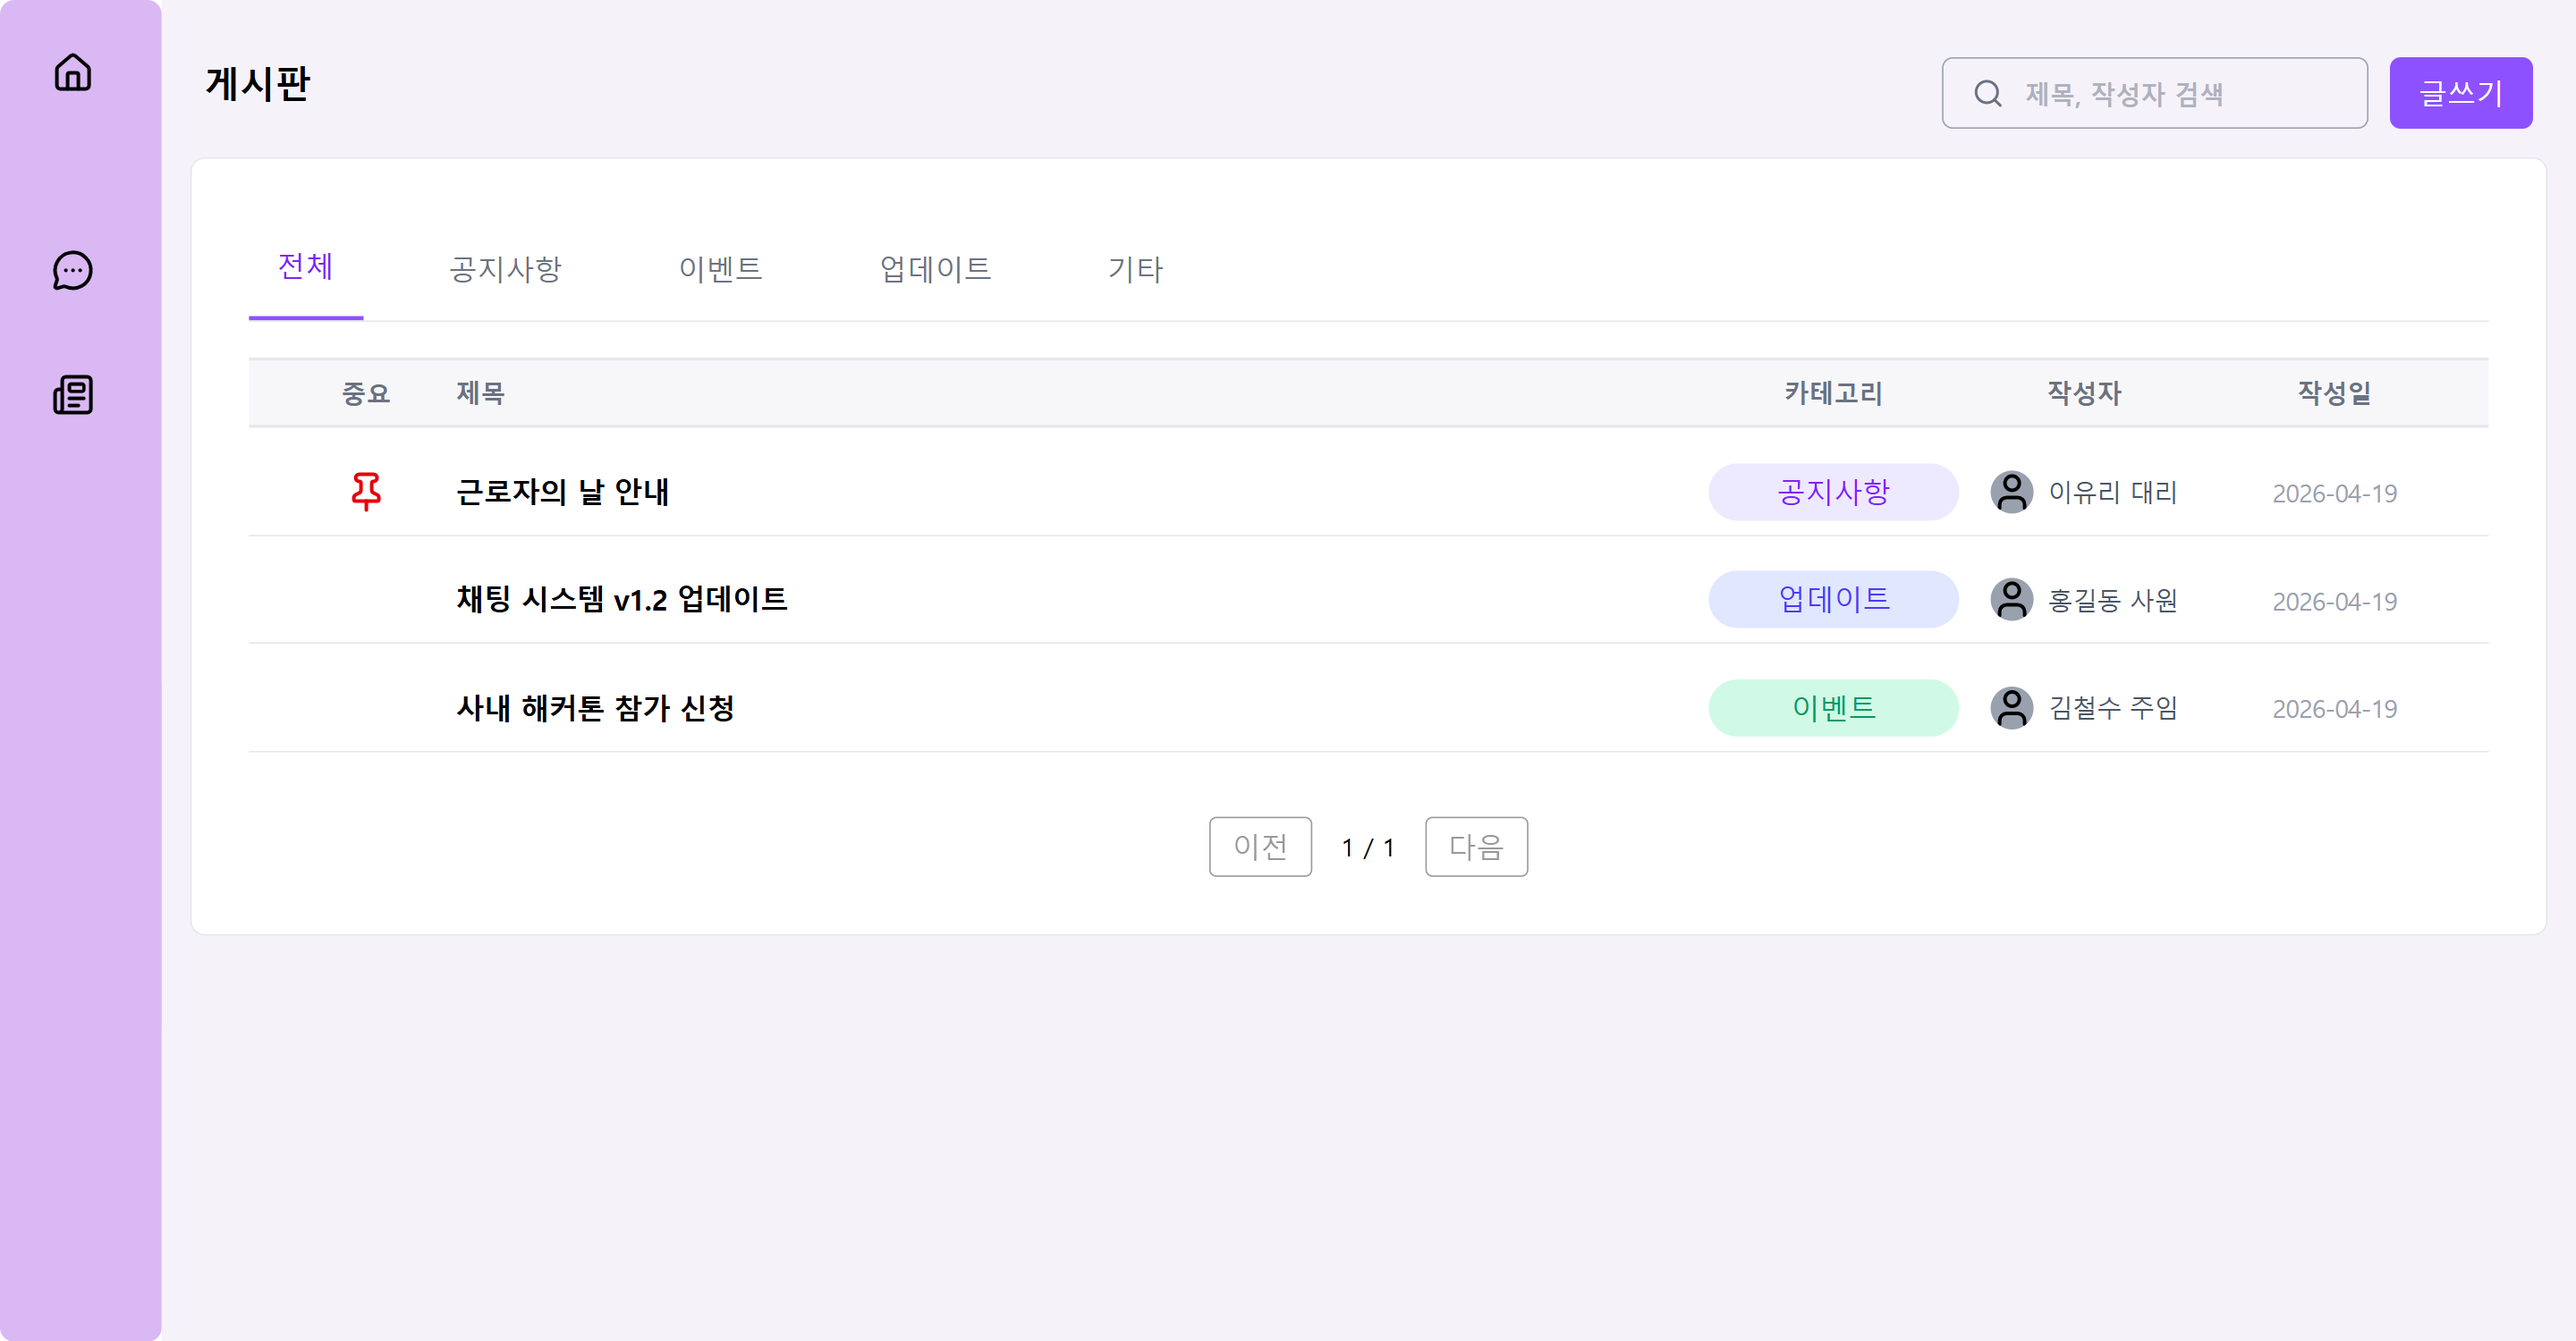
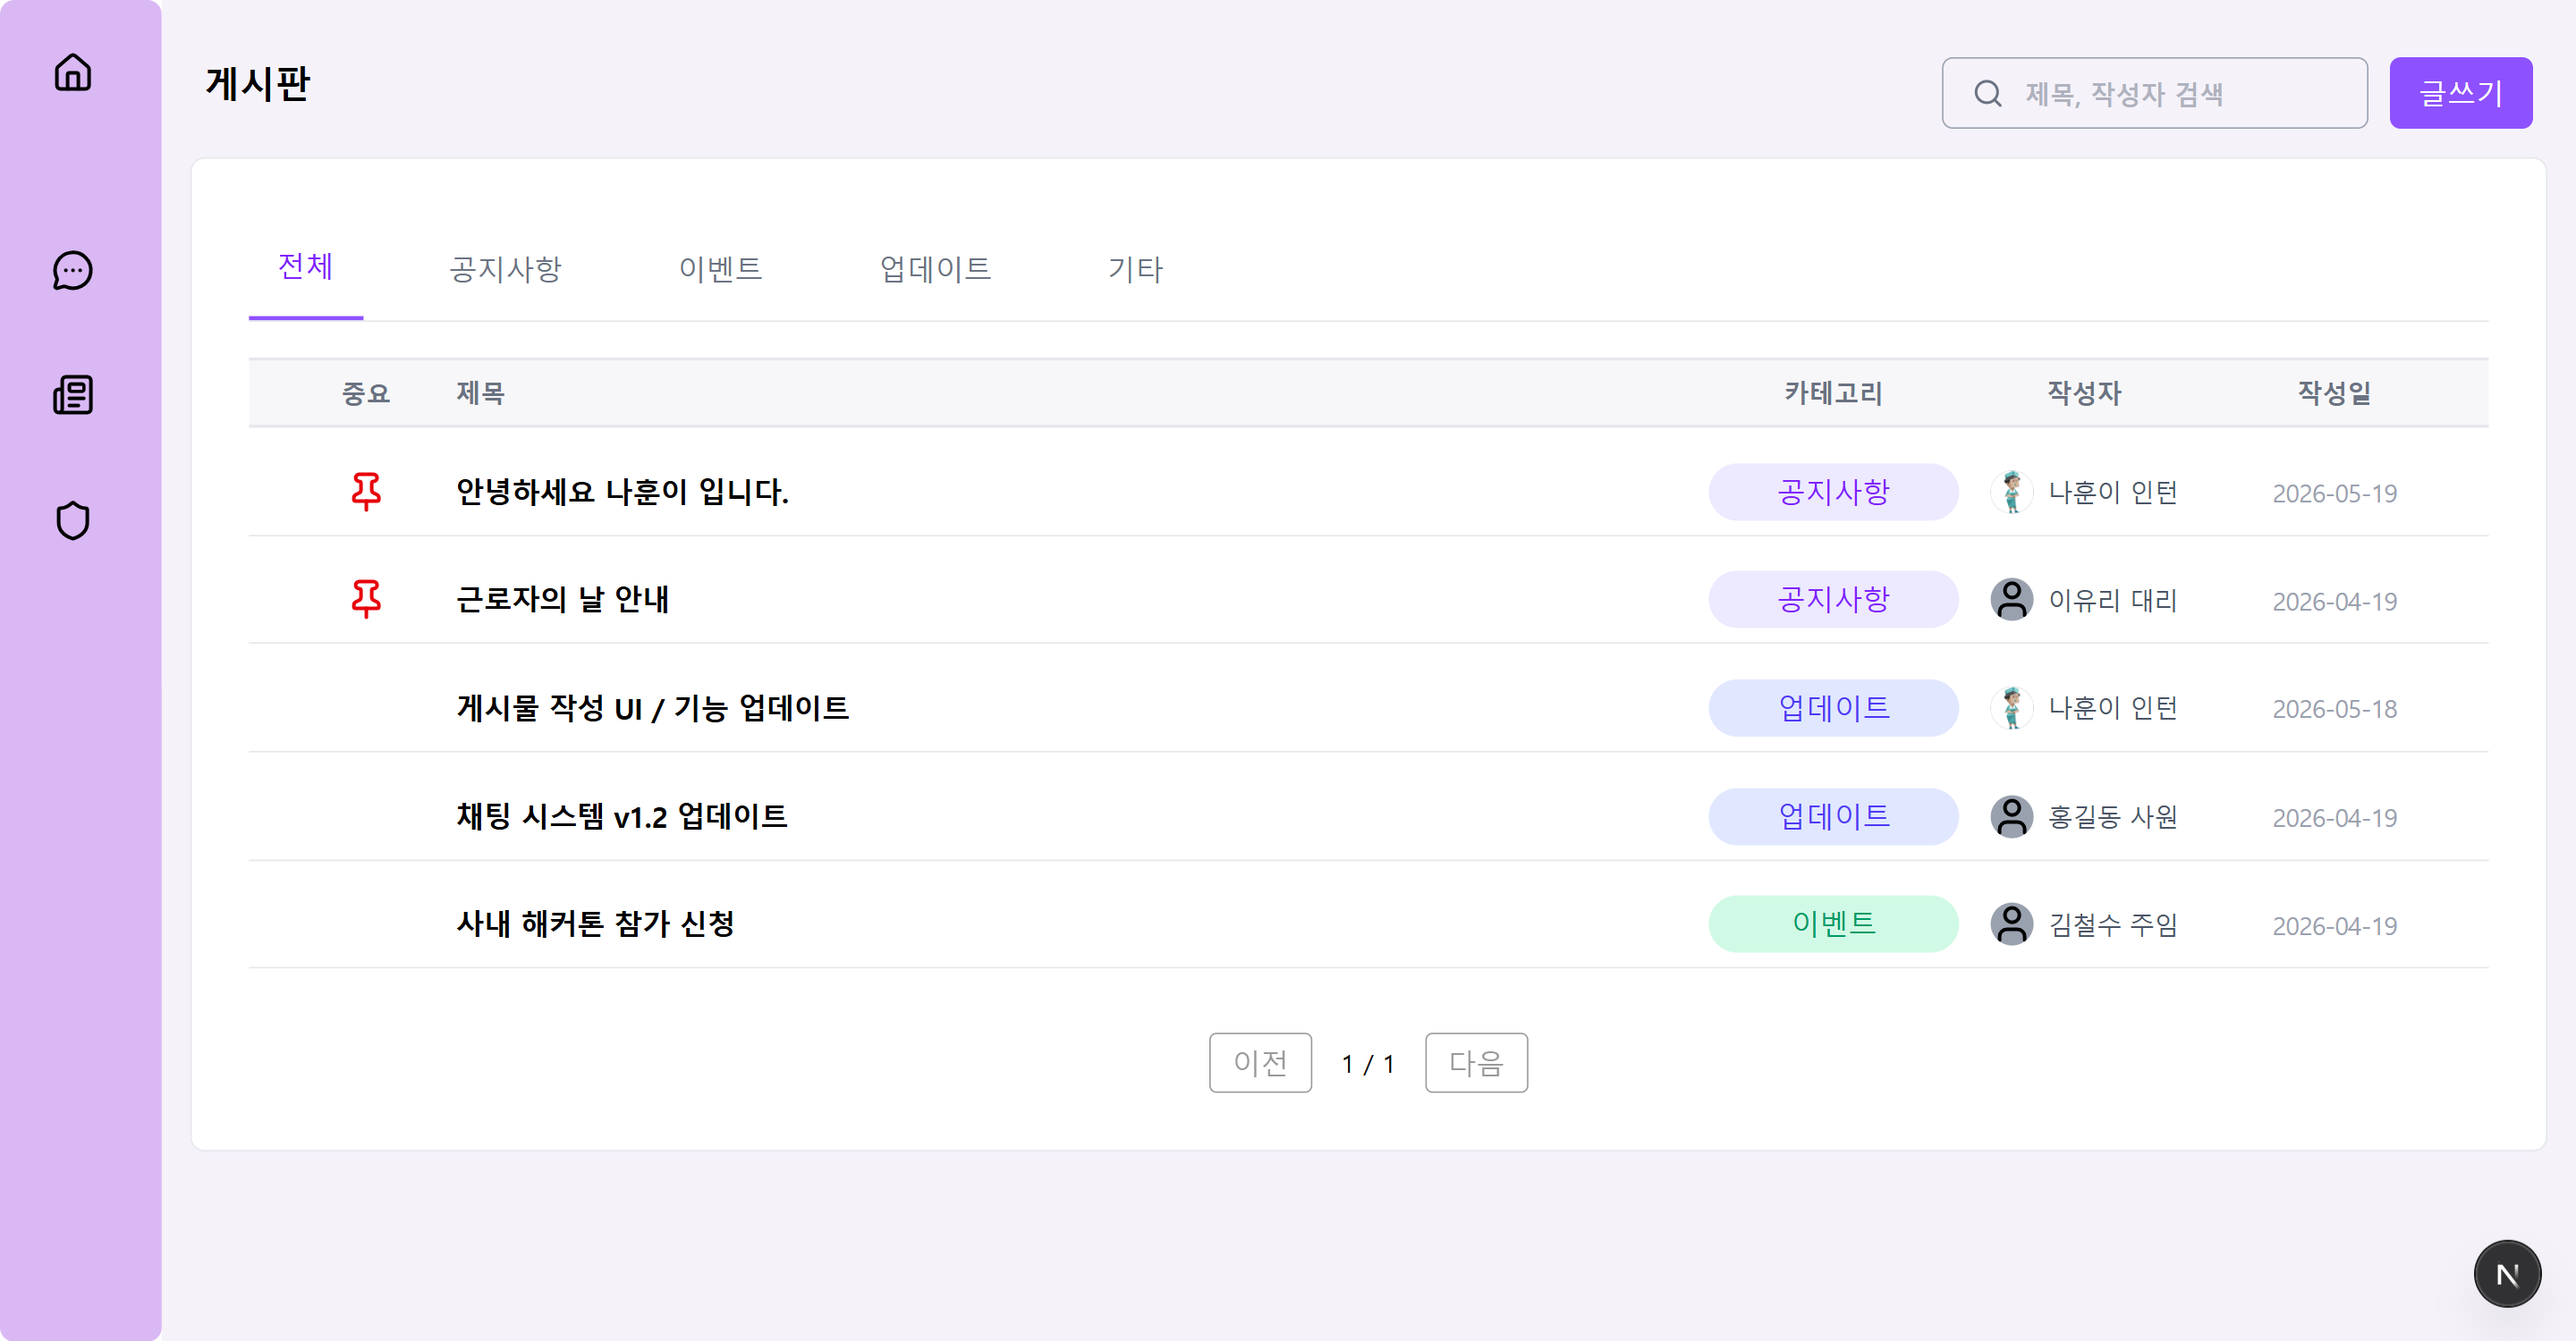
update Readme

diff --git a/README.md b/README.md
@@ -11,19 +11,17 @@
 
 ## 미리보기
 
-### 로그인
+### 인증
 
 ![로그인](./public/images/사내메신저_로그인.png)
-
-### 회원가입
-
 ![회원가입 1단계](./public/images/사내메신저_회원가입1.png)
 ![회원가입 2단계](./public/images/사내메신저_회원가입2.png)
 ![회원가입 완료](./public/images/사내메신저_회원가입3.png)
 
-### 홈
+### 홈 / 프로필
 
 ![홈](./public/images/사내메신저_홈.png)
+![프로필 설정](./public/images/사내메신저_프로필설정.png)
 
 ### 채팅
 
@@ -33,21 +31,21 @@
 ### 게시판
 
 ![게시판 기본 화면](./public/images/사내메신저_게시판_기본화면.png)
+![게시판 글쓰기](./public/images/사내메신저_게시판_글쓰기.png)
 ![게시판 상세 내용](./public/images/사내메신저_게시판_상세내용.png)
 
-### 일정
+### 일정 / 연차
 
 ![일정 상세](./public/images/사내메신저_일정상세.png)
 ![일정 수정](./public/images/사내메신저_일정수정.png)
-
-### 연차
-
 ![연차 신청](./public/images/사내메신저_연차신청.png)
 ![연차 내역](./public/images/사내메신저_연차내역.png)
 
-### 프로필
+### 관리자
 
-![프로필 설정](./public/images/사내메신저_프로필설정.png)
+![관리자 대시보드](./public/images/사내메신저_관리자페이지.png)
+![관리자 사원 관리](./public/images/사내메신저_관리자_사원관리.png)
+![관리자 사원 정보 수정](./public/images/사내메신저_관리자_사원정보수정.png)
 
 ## 주요 기능
 
